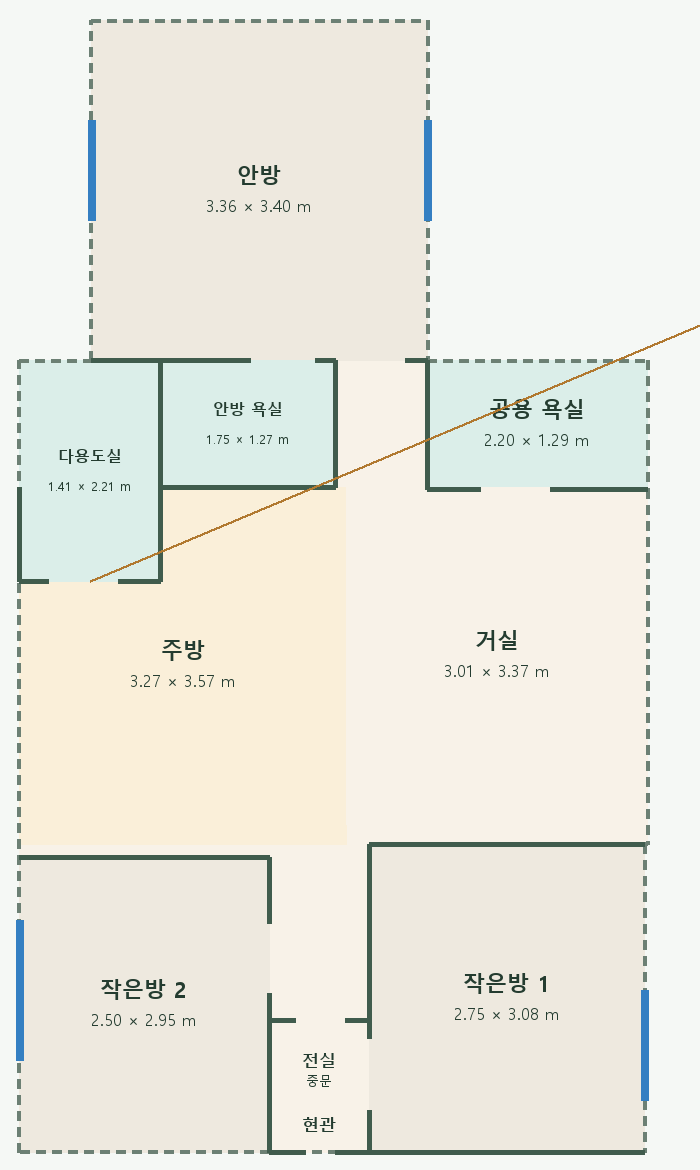
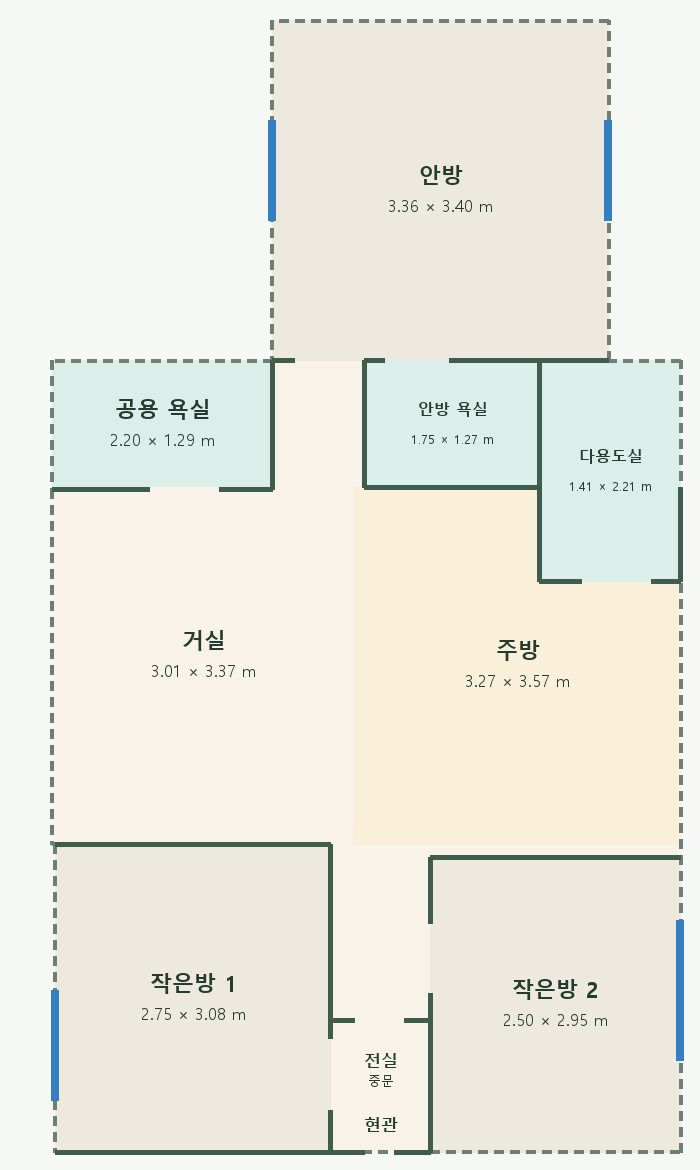
Mirror floor plan for odd-numbered unit

diff --git a/service-worker.js b/service-worker.js
@@ -1,5 +1,6 @@
-const CACHE='home-layout-v1';
+const CACHE='home-layout-v2';
 const FILES=['./','./index.html','./style.css','./app.js','./floorplan.png','./manifest.webmanifest','./icon-192.png','./icon-512.png'];
 self.addEventListener('install',event=>{event.waitUntil(caches.open(CACHE).then(cache=>cache.addAll(FILES)).then(()=>self.skipWaiting()))});
 self.addEventListener('activate',event=>{event.waitUntil(caches.keys().then(keys=>Promise.all(keys.filter(key=>key.startsWith('home-layout-')&&key!==CACHE).map(key=>caches.delete(key)))).then(()=>self.clients.claim()))});
 self.addEventListener('fetch',event=>{if(event.request.method!=='GET'||new URL(event.request.url).origin!==self.location.origin)return;event.respondWith(caches.match(event.request).then(hit=>hit||fetch(event.request)))})
+
